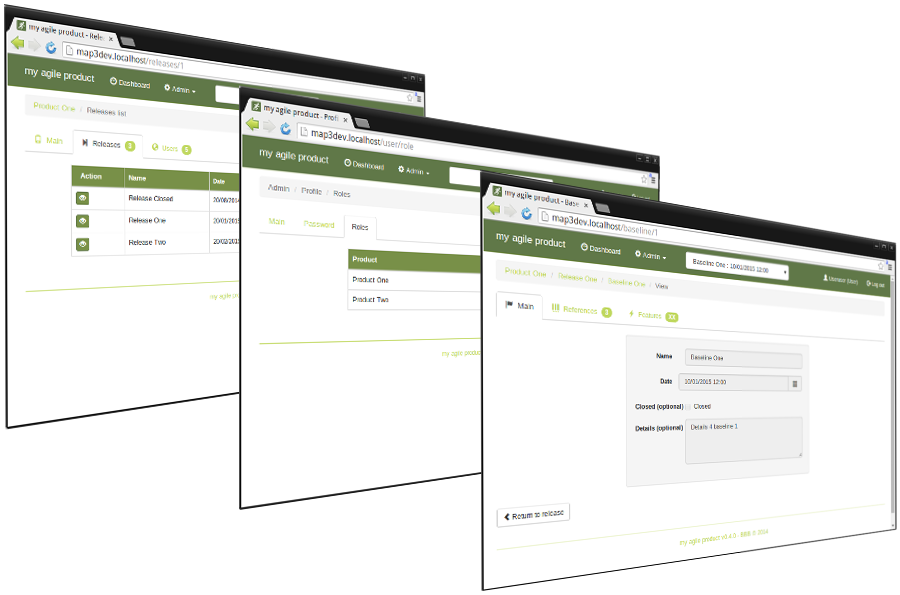
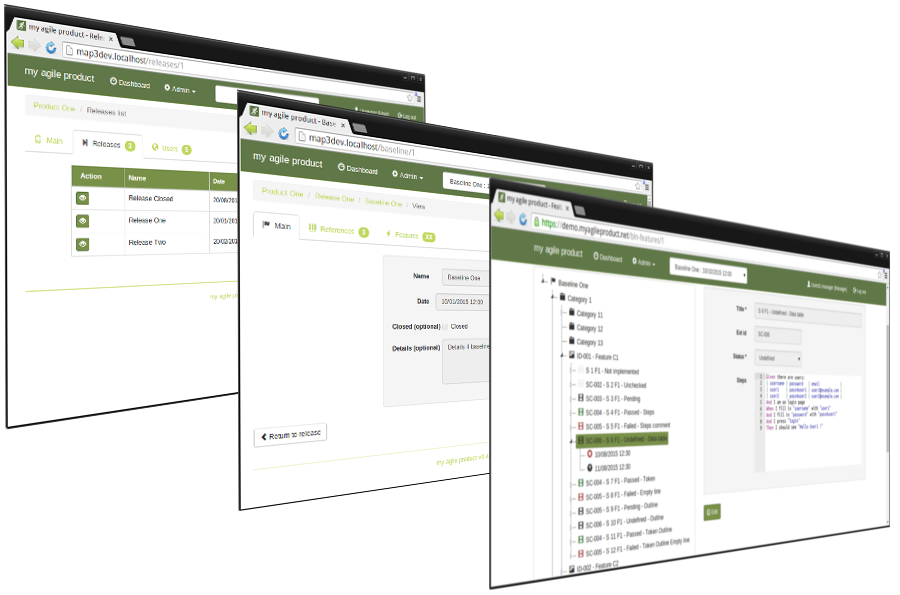
Update site with feature, scenario and test description

diff --git a/index.html b/index.html
@@ -2,5 +2,5 @@
 layout: home
 category : home
 title: my agile product
-subTitle: A tool not only for Behavior Driven Development
+subTitle: A Behavior Driven Development tool
 ---

diff --git a/_posts/2014-12-20-home-1.md b/_posts/2014-12-20-home-1.md
@@ -6,8 +6,9 @@ img-alt: List of features
 category: home
 title: Functional features management
 description: |
-  <p class="lead">My agile product is an open source software to manage 
-  functional features of a product by a description of acceptance criteria 
-  or scenarios.</p>
+  <p class="lead">My agile product is an 
+  <a href="https://en.wikipedia.org/wiki/Open-source_software" target="_blank" title="Open-source software definition from Wikipedia">Open-source software</a>
+  to manage functional features of a product by a description of acceptance
+  criteria or scenarios.</p>
 
 ---

diff --git a/_posts/2014-12-22-home-3.md b/_posts/2014-12-22-home-3.md
@@ -6,7 +6,9 @@ img-alt: my agile product work in progress
 category: Home
 title: Still under construction
 description: |
-  <p class="lead">Product, release and baseline management are completed. 
-  Features management will be included in next release.</p>
+  <p class="lead">Product, release, baseline, category, feature, scenario and 
+  tests management are completed. Scenario outline, import tree structure from 
+  previous baseline and an easiest deployment process will be included in next 
+  release.</p>
 
 ---

diff --git a/_posts/2014-12-21-home-2.md b/_posts/2014-12-21-home-2.md
@@ -7,7 +7,7 @@ category: Home
 title: Web interface
 description: |
   <p class="lead">Multi-users HTML5 web application with different kind of roles
-  on each managed product. For every release, many baselines can be defined
-  in which the features of the application are described.</p>
+  on each managed product. For each baselines a tree structure with categories,
+  features, scenarios and runned tests defined the real state of the product.</p>
 
 ---

diff --git a/_posts/2014-12-26-features-5.md b/_posts/2014-12-26-features-5.md
@@ -1,0 +1,12 @@
+---
+layout: default
+sitemap: false
+img: scenario-details.png
+img-alt: Details of a scenario
+lightbox: true
+category: Features
+title: Scenario
+description: |
+  <p class="lead">Scenarios defined acceptance criteria of a feature. Steps
+  of scenario could be written in Gherkin notation with syntax highlighting.</p>
+---

diff --git a/_posts/2014-12-26-features-4.md b/_posts/2014-12-26-features-4.md
@@ -1,0 +1,12 @@
+---
+layout: default
+sitemap: false
+img: feature-details.png
+img-alt: Details of a feature
+lightbox: true
+category: Features
+title: Categories and Features
+description: |
+  <p class="lead">A product can be described by a tree structure of categories 
+  and features.</p>
+---

diff --git a/_posts/2014-12-26-features-6.md b/_posts/2014-12-26-features-6.md
@@ -1,0 +1,12 @@
+---
+layout: default
+sitemap: false
+img: test-details.png
+img-alt: Details of a test
+lightbox: true
+category: Features
+title: Test
+description: |
+  <p class="lead">During a test, a result (passed, failed, skipped) of each 
+  steps of a scenario is filled.</p>
+---
